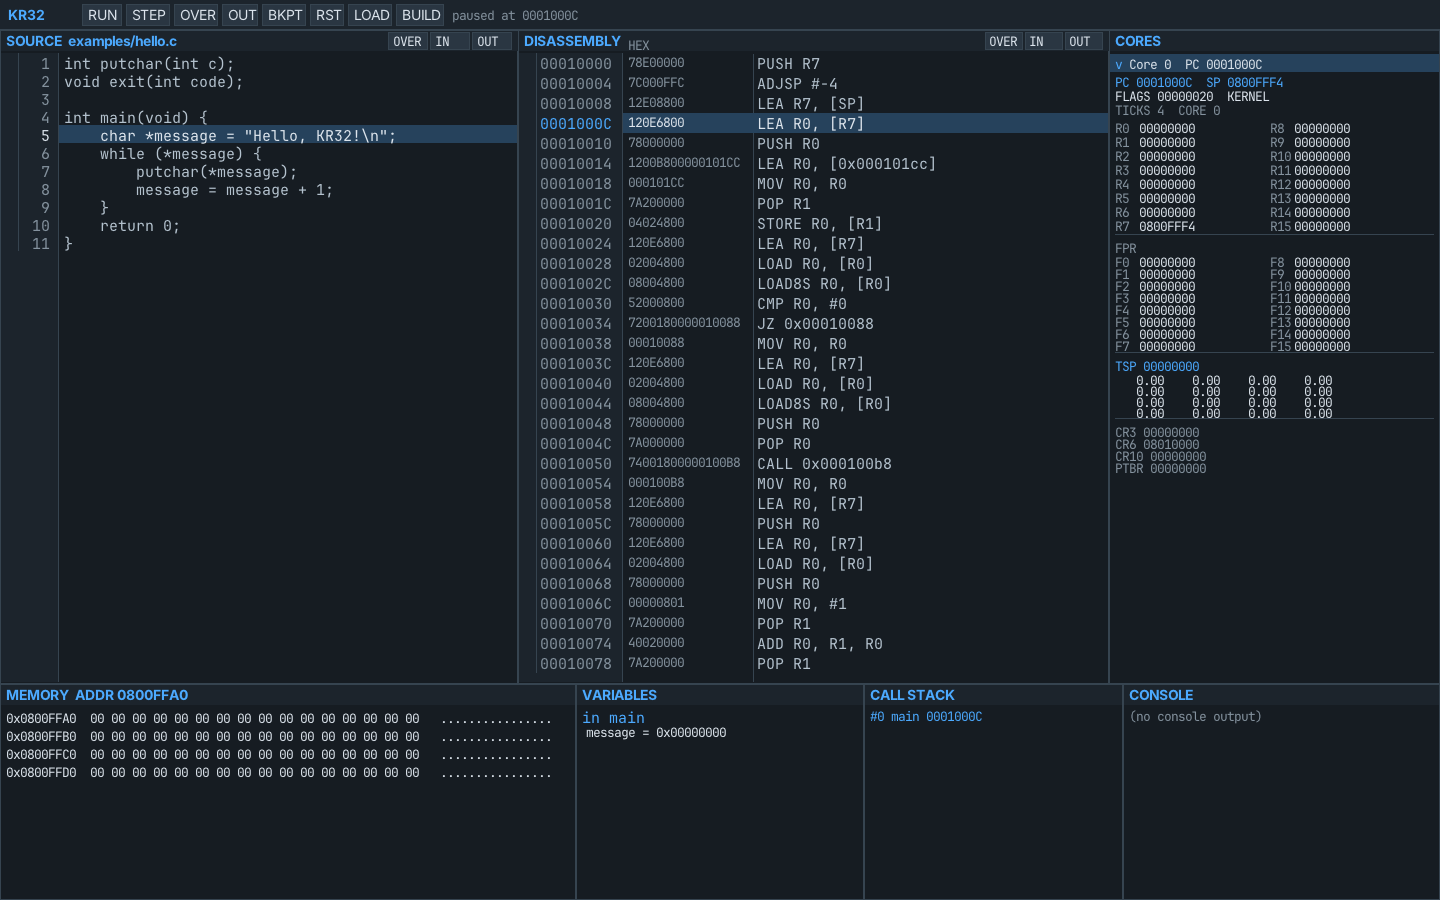
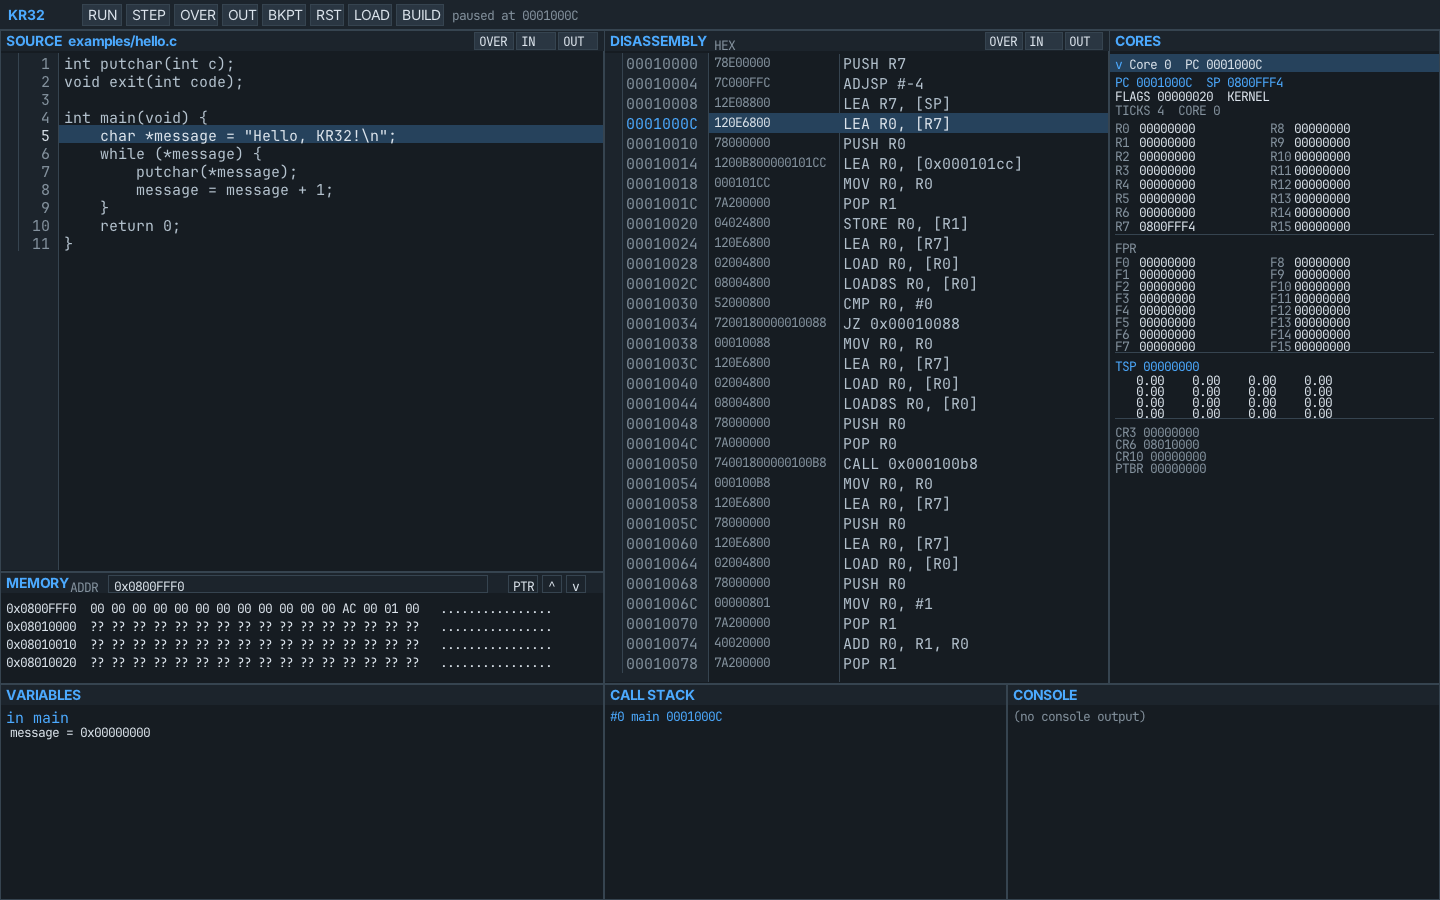
UI: dock memory under source and make start address editable

Changed region(s): [[0.0, 0.0311, 0.875, 0.8711]]

diff --git a/src/ui/debugger_ui.cpp b/src/ui/debugger_ui.cpp
@@ -168,6 +168,7 @@ bool DebuggerUI::load(const std::string& path, std::string& error) {
     source_scroll_ = 0;
     error_.clear();
     prepare_initial_stop();
+    memory_address_ = session_.machine().sp() & ~0xFU;
     status_ = "paused at " + hex(session_.machine().pc(), 8);
     return true;
 }
@@ -757,18 +758,34 @@ void DebuggerUI::draw_call_stack(Canvas& canvas, Rect rect) {
 }
 
 void DebuggerUI::draw_memory(Canvas& canvas, Rect rect) {
-    const int bytes_per_row = rect.width >= 520 ? 16 : 8;
-    constexpr int rows = 4;
-    const std::uint32_t sp = session_.machine().sp();
-    const std::uint32_t span = static_cast<std::uint32_t>(bytes_per_row * rows + 16);
-    std::uint32_t base = sp > span ? sp - span : session_.machine().ram_base();
-    base &= ~0xFU;
-    if (base < session_.machine().ram_base()) {
-        base = session_.machine().ram_base();
+    draw_panel(canvas, rect, "MEMORY");
+    canvas.text(rect.x + 70, rect.y + 7, "ADDR", kDim, FontRole::MonoSmall);
+    memory_address_rect_ =
+        Rect{rect.x + 108, rect.y + 3, std::max(120, rect.width - 224), 18};
+    memory_pointer_rect_ = Rect{rect.x + rect.width - 96, rect.y + 3, 30, 18};
+    memory_up_rect_ = Rect{rect.x + rect.width - 62, rect.y + 3, 20, 18};
+    memory_down_rect_ = Rect{rect.x + rect.width - 38, rect.y + 3, 20, 18};
+    canvas.fill(memory_address_rect_, kPanelAlt);
+    canvas.frame(memory_address_rect_, memory_address_editing_ ? kAccent : kBorder);
+    canvas.text(memory_address_rect_.x + 6, memory_address_rect_.y + 3,
+                "0x" + (memory_address_editing_ ? memory_edit_ : hex(memory_address_, 8)),
+                memory_address_editing_ ? kAccent : kText, FontRole::MonoSmall);
+    for (const Rect& button : {memory_pointer_rect_, memory_up_rect_, memory_down_rect_}) {
+        canvas.fill(button, kPanelAlt);
+        canvas.frame(button, kBorder);
     }
-    draw_panel(canvas, rect, "MEMORY  ADDR " + hex(base, 8));
+    canvas.text(memory_pointer_rect_.x + 5, memory_pointer_rect_.y + 3, "PTR", kText,
+                FontRole::MonoSmall);
+    canvas.text(memory_up_rect_.x + 6, memory_up_rect_.y + 3, "^", kText,
+                FontRole::MonoSmall);
+    canvas.text(memory_down_rect_.x + 6, memory_down_rect_.y + 3, "v", kText,
+                FontRole::MonoSmall);
+
+    const int bytes_per_row = rect.width >= 600 ? 16 : 8;
+    constexpr int rows = 4;
     for (int row = 0; row < rows; ++row) {
-        const std::uint32_t address = base + static_cast<std::uint32_t>(row * bytes_per_row);
+        const std::uint32_t address =
+            memory_address_ + static_cast<std::uint32_t>(row * bytes_per_row);
         std::string hex_part = "0x" + hex(address, 8) + "  ";
         std::string ascii_part;
         for (int column = 0; column < bytes_per_row; ++column) {
@@ -781,9 +798,41 @@ void DebuggerUI::draw_memory(Canvas& canvas, Rect rect) {
                                      ? static_cast<char>(value)
                                      : '.');
         }
-        canvas.text(rect.x + 6, rect.y + 26 + row * 18,
+        canvas.text(rect.x + 6, rect.y + 28 + row * 18,
                     hex_part + "  " + ascii_part, kText, FontRole::MonoSmall);
     }
+}
+
+void DebuggerUI::begin_memory_address_edit() {
+    memory_address_editing_ = true;
+    memory_edit_ = hex(memory_address_, 8);
+    memory_edit_fresh_ = true;
+}
+
+void DebuggerUI::finish_memory_address_edit(bool commit) {
+    if (!memory_address_editing_) return;
+    if (commit) {
+        unsigned value = 0;
+        bool valid = !memory_edit_.empty();
+        for (char ch : memory_edit_) {
+            const int digit = std::isdigit(static_cast<unsigned char>(ch)) != 0
+                                  ? ch - '0'
+                                  : (std::isxdigit(static_cast<unsigned char>(ch)) != 0
+                                         ? std::tolower(static_cast<unsigned char>(ch)) - 'a' + 10
+                                         : -1);
+            if (digit < 0) {
+                valid = false;
+                break;
+            }
+            value = (value << 4) | static_cast<unsigned>(digit);
+        }
+        if (valid) {
+            memory_address_ = value & ~0xFU;
+        }
+    }
+    memory_address_editing_ = false;
+    memory_edit_.clear();
+    memory_edit_fresh_ = false;
 }
 
 void DebuggerUI::draw_console(Canvas& canvas, Rect rect) {
@@ -803,7 +852,7 @@ void DebuggerUI::draw_console(Canvas& canvas, Rect rect) {
 
 DebuggerUI::Layout DebuggerUI::layout(int width, int height) const {
     const int right_width = std::clamp(width * 23 / 100, 230, 360);
-    int source_width = std::clamp(width * 36 / 100, 240, width - right_width - 300);
+    int source_width = std::clamp(width * 42 / 100, 240, width - right_width - 300);
     int disassembly_width = width - source_width - right_width;
     if (disassembly_width < 300) {
         disassembly_width = 300;
@@ -812,22 +861,22 @@ DebuggerUI::Layout DebuggerUI::layout(int width, int height) const {
     const int bottom_height = std::clamp(height * 24 / 100, 190, 230);
     const int bottom_top = height - bottom_height;
     const int top_height = bottom_top - kToolbarHeight;
-    const int memory_width = width * 40 / 100;
-    const int variables_width = width * 20 / 100;
-    const int stack_width = width * 18 / 100;
-    const int console_width = width - memory_width - variables_width - stack_width;
+    constexpr int memory_height = 112;
+    const int source_height = std::max(120, top_height - memory_height);
+    const int variables_width = width * 42 / 100;
+    const int stack_width = width * 28 / 100;
+    const int console_width = width - variables_width - stack_width;
 
     Layout result;
-    result.source = Rect{0, kToolbarHeight, source_width, top_height};
+    result.source = Rect{0, kToolbarHeight, source_width, source_height};
     result.disassembly = Rect{source_width, kToolbarHeight, disassembly_width, top_height};
     result.cores = Rect{source_width + disassembly_width, kToolbarHeight, right_width,
                         top_height};
-    result.memory = Rect{0, bottom_top, memory_width, bottom_height};
-    result.variables = Rect{memory_width, bottom_top, variables_width, bottom_height};
-    result.call_stack = Rect{memory_width + variables_width, bottom_top, stack_width,
-                             bottom_height};
-    result.console = Rect{memory_width + variables_width + stack_width, bottom_top,
-                          console_width, bottom_height};
+    result.memory = Rect{0, kToolbarHeight + source_height, source_width, memory_height};
+    result.variables = Rect{0, bottom_top, variables_width, bottom_height};
+    result.call_stack = Rect{variables_width, bottom_top, stack_width, bottom_height};
+    result.console = Rect{variables_width + stack_width, bottom_top, console_width,
+                          bottom_height};
     return result;
 }
 
@@ -1143,6 +1192,25 @@ bool DebuggerUI::click(int x, int y, int width, int height) {
         }
         return true;
     }
+    if (memory_address_editing_ && !memory_address_rect_.contains(x, y)) {
+        finish_memory_address_edit(true);
+    }
+    if (memory_address_rect_.contains(x, y)) {
+        begin_memory_address_edit();
+        return true;
+    }
+    if (memory_up_rect_.contains(x, y)) {
+        memory_address_ = memory_address_ >= 16 ? (memory_address_ - 16) & ~0xFU : 0;
+        return true;
+    }
+    if (memory_down_rect_.contains(x, y)) {
+        memory_address_ = std::min(memory_address_ + 16U, 0xFFFF'FFF0U) & ~0xFU;
+        return true;
+    }
+    if (memory_pointer_rect_.contains(x, y)) {
+        memory_address_ = session_.machine().sp() & ~0xFU;
+        return true;
+    }
     if (y >= kToolbarHeight) {
         for (const CoreRow& row : core_rows_) {
             if (!row.row.contains(x, y)) continue;
@@ -1197,6 +1265,37 @@ bool DebuggerUI::click(int x, int y, int width, int height) {
 }
 
 bool DebuggerUI::key(int key_value, bool shift) {
+    if (memory_address_editing_) {
+        if (key_value == kr32::platform::key::Escape) {
+            finish_memory_address_edit(false);
+            return true;
+        }
+        if (key_value == kr32::platform::key::Enter) {
+            finish_memory_address_edit(true);
+            return true;
+        }
+        if (key_value == kr32::platform::key::Backspace) {
+            if (memory_edit_fresh_) {
+                memory_edit_.clear();
+                memory_edit_fresh_ = false;
+            } else if (!memory_edit_.empty()) {
+                memory_edit_.pop_back();
+            }
+            return true;
+        }
+        const bool digit =
+            (key_value >= '0' && key_value <= '9') ||
+            (key_value >= 'a' && key_value <= 'f') ||
+            (key_value >= 'A' && key_value <= 'F');
+        if (digit && memory_edit_.size() < 8) {
+            if (memory_edit_fresh_) {
+                memory_edit_.clear();
+                memory_edit_fresh_ = false;
+            }
+            memory_edit_.push_back(static_cast<char>(key_value));
+        }
+        return true;
+    }
     if (key_value == kr32::platform::key::Escape) {
         if (menu_.open) {
             menu_.open = false;

diff --git a/include/kr32/ui/debugger_ui.h b/include/kr32/ui/debugger_ui.h
@@ -69,6 +69,8 @@ private:
     void draw_call_stack(Canvas& canvas, Rect rect);
     void draw_memory(Canvas& canvas, Rect rect);
     void draw_console(Canvas& canvas, Rect rect);
+    void begin_memory_address_edit();
+    void finish_memory_address_edit(bool commit);
     void draw_asm_tooltip(Canvas& canvas);
     void draw_error(Canvas& canvas);
     [[nodiscard]] std::string format_hex(std::uint32_t value, int digits = 8) const;
@@ -87,6 +89,14 @@ private:
     std::vector<CoreRow> core_rows_;
     std::size_t expanded_core_ = 0;
     std::size_t selected_core_ = 0;
+    std::uint32_t memory_address_ = 0;
+    bool memory_address_editing_ = false;
+    std::string memory_edit_;
+    bool memory_edit_fresh_ = true;
+    Rect memory_address_rect_{};
+    Rect memory_pointer_rect_{};
+    Rect memory_up_rect_{};
+    Rect memory_down_rect_{};
     int source_scroll_ = 0;
 
     struct ContextMenu {

diff --git a/src/platform/sdl2/platform.cpp b/src/platform/sdl2/platform.cpp
@@ -19,6 +19,9 @@ int map_key(SDL_Keycode key) {
     case SDLK_RIGHT: return key::Right;
     case SDLK_UP: return key::Up;
     case SDLK_DOWN: return key::Down;
+    case SDLK_RETURN:
+    case SDLK_KP_ENTER: return key::Enter;
+    case SDLK_BACKSPACE: return key::Backspace;
     default: break;
     }
     if (key >= 32 && key < 127) {

diff --git a/include/kr32/platform/window.h b/include/kr32/platform/window.h
@@ -17,6 +17,8 @@ inline constexpr int Left = 262;
 inline constexpr int Right = 263;
 inline constexpr int Up = 264;
 inline constexpr int Down = 265;
+inline constexpr int Enter = 266;
+inline constexpr int Backspace = 267;
 } // namespace key
 
 struct Event {

diff --git a/docs/ui.md b/docs/ui.md
@@ -41,7 +41,7 @@ executables load directly.
 | Source | Gutter with line numbers and breakpoint squares, source text, current-line highlight, line-step Over/In/Out |
 | Disassembly | Address/breakpoint gutter, HEX word column, mnemonics, current-PC highlight, instruction-step Over/In/Out |
 | Cores | One row per core; expandable core state with GPRs, FPRs, TSP/T0, paging, and control registers |
-| Memory | Four-line address/hex/ASCII dump, always visible |
+| Memory | Four-line address/hex/ASCII dump docked under the source pane |
 | Variables | Current function, locals, and globals, always visible |
 | Call stack | Current frames, always visible |
 | Console | Guest console output, always visible |
@@ -49,9 +49,14 @@ executables load directly.
 The right-hand **CORES** panel lists one row per core and is expandable. The
 expanded row shows that core's PC/SP/FLAGS, GPRs, F0-F15, TSP and T0 tile,
 paging registers, and control registers. Click a core row to select it or
-collapse/expand its details. The bottom row keeps **MEMORY**, **VARIABLES**,
-**CALL STACK**, and **CONSOLE** visible at all times; MEMORY is a fixed four-line
-dump with an address, hex bytes, and printable ASCII.
+collapse/expand its details. The **MEMORY** panel is docked beneath the source
+pane and shows four address/hex/ASCII lines. **VARIABLES**, **CALL STACK**, and
+**CONSOLE** remain visible along the bottom row, with the extra width freed by
+moving memory into the source column.
+
+The memory starting address is editable: click the address field and type up to
+eight hex digits, then press Enter; Escape cancels. **PTR** follows the current
+SP, and the **^** / **v** buttons move the dump up or down one 16-byte row.
 
 ## Gutter behavior
 
@@ -84,6 +89,8 @@ dump with an address, hex bytes, and printable ASCII.
 - `F9` toggle a breakpoint at the current source line.
 - `R` restart/reload; `Esc` quits.
 - Left-click a core row to select it and toggle its expanded state.
+- Click the memory **ADDR** field to edit the starting address; Enter commits and
+  Escape cancels. **PTR** follows SP; **^** / **v** scroll by 16 bytes.
 - Left-click a source or disassembly gutter row to toggle a breakpoint; right-click
   it for the gutter menu.
 

diff --git a/implementation.md b/implementation.md
@@ -3,7 +3,7 @@
 > **Status:** active. This file is the working checklist, milestone gate, dependency
 > record, and running log for KR32.
 >
-> **Last updated:** 2026-11-02 08:49 -08:00
+> **Last updated:** 2026-11-02 09:02 -08:00
 >
 > **Related:** [KR32-plan.md](KR32-plan.md) (architecture and decisions),
 > [docs/isa-v1.md](docs/isa-v1.md) (encoding), [kr16-final-plan.md](kr16-final-plan.md)
@@ -849,6 +849,12 @@ Newest entries at the bottom. Use the local time zone.
       select/collapse/expand hit testing and a `Session::core_count()`/`core()`
       seam for future multicore sessions. Updated headless rendering to one
       1440x900 frame and refreshed docs/screenshots.
+- **2026-11-02 09:02 -08:00** — Docked the four-line MEMORY dump beneath the
+      source pane, leaving VARIABLES, CALL STACK, and CONSOLE as the wider
+      always-visible bottom row. Added an editable memory start address with
+      Enter/Escape handling, a PTR-to-SP button, and ^/v 16-byte scrolling
+      buttons. Added Enter/Backspace platform key mappings and refreshed the
+      layout screenshot/docs.
 
 ## 10. Updating this file
 

diff --git a/README.md b/README.md
@@ -15,7 +15,8 @@ cluster, IPIs, and LL/SC spinlock runs are implemented. The debugger opens at
 and instruction stepping controls, responsive resizing, KR16-style gutters with
 breakpoint toggles and a Run to line/address context menu, a HEX word column,
 disassembly hover help for instructions and addressing modes, an expandable
-CORES panel, and always-visible memory, variables, call-stack, and console
+CORES panel, a four-line memory dump docked under the source pane with an
+editable start address, and always-visible variables, call-stack, and console
 panels. See
 [docs/devices.md](docs/devices.md) and [docs/ui.md](docs/ui.md). The C++
 toolchain is the remaining planned milestone.
